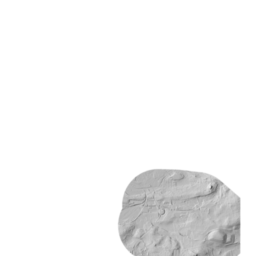
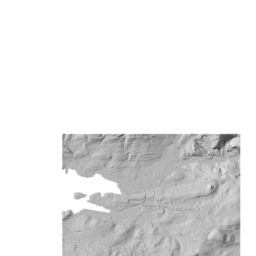
fix: ostavi sjenčanje neodrezano na z12-14
Rezanje na kvart + 1 km na svim zumovima znacilo je da pri z14 sjencanje
izgleda kao otok koji pluta na bijelom — podloga koje nema nije nenacrtan
sloj nego rupa.

Na sitnim zumovima rezanje ionako gotovo nista ne stedi: cijeli obuhvat
ondje stane u osamnaest plocica. Zato dva prolaza — z12-14 cijeli obuhvat,
z15-17 rezano, gdje i jest 94 % svih plocica.

  283 -> 288 plocica, 5,9 -> 6,1 MB   (pet plocica za puni pogled izdaleka)

Izmjereno, uz okno 1491 x 812 px: rub se ne vidi na z16 (2,58 km okna prema
3,74 km rezanog obuhvata) ni na z17. Na z15 se vidi vodoravno, ali ga bocne
ploce uglavnom prekrivaju, a na telefonu je okno uze od rezanog obuhvata pa
ga nema.

Changed region(s): [[0.2188, 0.5, 0.9375, 1.0]]

diff --git a/scripts/izvedi-reljef.py b/scripts/izvedi-reljef.py
@@ -88,6 +88,9 @@ ZAGLADI = 3  # ćelija (× KORAK_M ≈ 9 m) — box filtar prije izohipsi
 EKVIDISTANCIJA = 2.0  # m — razmak izohipsi
 POJEDNOSTAVI = 2.5  # m — Douglas-Peucker nad izohipsama
 ZUM_OD, ZUM_DO = 12, 17  # z17 = 0,87 m/px ≈ izvorna gustoća DMR-a
+# Od ovog zuma naviše pločice se režu na kvart; ispod njega se objavljuje
+# cijeli obuhvat. Vidi dvostruki prolaz u `sjencani_reljef`.
+ZUM_REZ_OD = 15
 PRAZNO = -9999
 
 
@@ -206,49 +209,61 @@ def sjencani_reljef(reljef3: str, radni: str) -> int:
 
     # Pločica bez alfe pokrila bi more i rubove punom sivom plohom. Alfa se
     # uzima iz DMR-a, ne iz sjenčanja: sjenčanje i na praznini vrati broj.
-    #
-    # Uz to se reže na kvart + REZERVA_SJENCANJE_M. Reljef se računa na cijelom
-    # obuhvatu karte jer ga mreža visina treba, ali pločice se i objavljuju i
-    # drže u gitu, a izvan kvarta ih nitko ne gleda: prije rezanja je 74 %
-    # svih pločica bilo na z17, uglavnom nad područjem kroz koje se samo
-    # prolazi prema tokovima.
     izvor = gdal.Open(reljef3)
     visine = izvor.GetRasterBand(1).ReadAsArray()
     sjena_ds = gdal.Open(sjena)
     siva = sjena_ds.GetRasterBand(1).ReadAsArray()
-    maska = maska_na_mrezi(reljef3, REZERVA_SJENCANJE_M)
-    alfa = np.where((visine != PRAZNO) & maska, 255, 0).astype(np.uint8)
+    ima_visinu = visine != PRAZNO
 
-    rgba_put = os.path.join(radni, "sjena-rgba.tif")
-    rgba = gdal.GetDriverByName("GTiff").Create(
-        rgba_put, izvor.RasterXSize, izvor.RasterYSize, 4, gdal.GDT_Byte
-    )
-    rgba.SetGeoTransform(izvor.GetGeoTransform())
-    rgba.SetProjection(izvor.GetProjection())
-    for i in (1, 2, 3):
-        rgba.GetRasterBand(i).WriteArray(siva)
-    rgba.GetRasterBand(4).WriteArray(alfa)
-    rgba = None
+    def rgba(alfa: np.ndarray, ime: str) -> str:
+        put = os.path.join(radni, f"{ime}.tif")
+        ds = gdal.GetDriverByName("GTiff").Create(
+            put, izvor.RasterXSize, izvor.RasterYSize, 4, gdal.GDT_Byte
+        )
+        ds.SetGeoTransform(izvor.GetGeoTransform())
+        ds.SetProjection(izvor.GetProjection())
+        for i in (1, 2, 3):
+            ds.GetRasterBand(i).WriteArray(siva)
+        ds.GetRasterBand(4).WriteArray(alfa)
+        ds = None
+        return put
+
+    puni = rgba(np.where(ima_visinu, 255, 0).astype(np.uint8), "sjena-puna")
+    maska = maska_na_mrezi(reljef3, REZERVA_SJENCANJE_M)
+    rezani = rgba(np.where(ima_visinu & maska, 255, 0).astype(np.uint8), "sjena-rezana")
 
     if os.path.isdir(IZLAZ_RELJEF):
         for z in range(0, 25):
             shutil.rmtree(os.path.join(IZLAZ_RELJEF, str(z)), ignore_errors=True)
     os.makedirs(IZLAZ_RELJEF, exist_ok=True)
 
-    subprocess.run(
-        [
-            "gdal2tiles.py",
-            "--xyz",
-            f"--zoom={ZUM_OD}-{ZUM_DO}",
-            "--resampling=bilinear",
-            "--webviewer=none",
-            "--processes=4",
-            "-q",
-            rgba_put,
-            IZLAZ_RELJEF,
-        ],
-        check=True,
-    )
+    # Dva prolaza, jer se rezanje isplati samo na krupnom mjerilu.
+    #
+    # Na sitnim zumovima cijeli obuhvat stane u dvadesetak pločica, pa rezanje
+    # ondje ne štedi gotovo ništa — a KOŠTA, i to vidljivo: sjenčanje odrezano
+    # na kvart pri z14 izgleda kao otok koji pluta na bijelom. Podloga koje
+    # nema nije nenacrtan sloj nego rupa.
+    #
+    # Na z15–17 je obratno: ondje je 95 % svih pločica, rub se ne vidi jer je
+    # pola okna manje od rezerve, i rezanje prepolovi cijeli skup.
+    for od, do, izvorna in (
+        (ZUM_OD, ZUM_REZ_OD - 1, puni),
+        (ZUM_REZ_OD, ZUM_DO, rezani),
+    ):
+        subprocess.run(
+            [
+                "gdal2tiles.py",
+                "--xyz",
+                f"--zoom={od}-{do}",
+                "--resampling=bilinear",
+                "--webviewer=none",
+                "--processes=4",
+                "-q",
+                izvorna,
+                IZLAZ_RELJEF,
+            ],
+            check=True,
+        )
 
     # gdal2tiles uz pločice ostavlja i svoj opis skupa; karta ga ne čita.
     for smece in ("tilemapresource.xml", "googlemaps.html", "openlayers.html", "leaflet.html"):
@@ -281,15 +296,17 @@ def sjencani_reljef(reljef3: str, radni: str) -> int:
             os.rmdir(koren)
 
     logger.info(
-        "sjenčani reljef: %d pločica, %.1f MB (RGBA bi bilo %.1f MB), zumovi %d–%d; "
-        "izbačeno %d praznih izvan kvarta + %.0f m",
+        "sjenčani reljef: %d pločica, %.1f MB (RGBA bi bilo %.1f MB); "
+        "z%d–%d cijeli obuhvat, z%d–%d rezano na kvart + %.0f m (izbačeno %d praznih)",
         broj,
         poslije / 1e6,
         prije / 1e6,
         ZUM_OD,
+        ZUM_REZ_OD - 1,
+        ZUM_REZ_OD,
         ZUM_DO,
-        prazne,
         REZERVA_SJENCANJE_M,
+        prazne,
     )
     return broj
 

diff --git a/docs/superpowers/specs/2026-08-14-podloge-vremeplov-reljef-design.md b/docs/superpowers/specs/2026-08-14-podloge-vremeplov-reljef-design.md
@@ -120,16 +120,29 @@ Zumovi 12–17. Na z17 je 0,87 m po pikselu, dakle točno izvorna gustoća DMR-a
 z18 i z19 bi bili napuhani isti podatak, pa se dobivaju `maxNativeZoom: 17` i
 Leafletovim rastezanjem. To nije ušteda nego istina o razlučivosti.
 
-Pločice se **režu na kvart + 1 km** (REZERVA_SJENCANJE_M). Rezerva je znatno
-šira nego kod izohipsi jer je sjenčanje PODLOGA: pod njim nema ničega, pa
-ondje gdje ga nema ostaje prazna ploha. Pri z16 je pola okna oko 700 m, pa
-kilometar znači da se do ruba dolazi tek namjernim pomicanjem izvan kvarta —
-provjereno: pri z16 se rub ne vidi, pri z14 se sjenčanje vidi kao otok.
+Rezanje ide **u dva prolaza**, jer se isplati samo na krupnom mjerilu:
+
+| Zumovi | Obuhvat | Pločica |
+|---|---|---|
+| z12–14 | cijeli obuhvat karte | 18 |
+| z15–17 | kvart + 1 km (REZERVA_SJENCANJE_M) | 270 |
+
+Na sitnim zumovima cijeli obuhvat stane u osamnaest pločica, pa rezanje ondje
+ne štedi gotovo ništa — a KOŠTA, i to vidljivo: odrezano sjenčanje pri z14
+izgleda kao otok koji pluta na bijelom. Podloga koje nema nije nenacrtan sloj
+nego rupa. Na z15–17 je obratno: ondje je 94 % svih pločica.
+
+Rezerva od 1 km je znatno šira nego kod izohipsi (120 m) iz istog razloga.
+Izmjereno, uz okno 1491 × 812 px: rub se ne vidi na z16 (2,58 km okna prema
+3,74 km rezanog obuhvata) ni na z17. Na z15 se vidi vodoravno, ali ga bočne
+ploče uglavnom prekrivaju, a na telefonu je okno uže od rezanog obuhvata pa
+ga nema. To je poznata i prihvaćena granica.
 
 Ostatak obuhvata karte (koji seže do Kozjaka i mora, zbog sloja tokova)
-svjesno ostaje bez sjenčanja: ondje se gleda tok vode, a ne oblik terena.
+svjesno ostaje bez sjenčanja na krupnom mjerilu: ondje se gleda tok vode, a
+ne oblik terena.
 
-Izrađeno: **283 pločice, 5,9 MB** (sive s alfom, ne RGBA — sjenčanje je sivo,
+Izrađeno: **288 pločica, 6,1 MB** (sive s alfom, ne RGBA — sjenčanje je sivo,
 pa bi tri jednaka kanala isti bajt nosila tri puta). Prije rezanja: 585
 pločica i 12,9 MB, od čega je 74 % otpadalo na z17.
 
@@ -204,5 +217,5 @@ Oboje je popravljeno u `karta-klizac.ts` i vrijedi za oba klizača.
 
 Mjereno pri izradi (`npm run izvedi-reljef`): mreža 1641 × 1225, 4,0 MB sirovo
 i 1,6 MB na disku; izohipse 161 crta (26 glavnih), 0,11 MB, rezano na kvart
-+ 120 m; sjenčanje 283 pločice, 5,9 MB, rezano na kvart + 1 km. Očitanje iz mreže protiv izvornog DMR-a na 1.889 nasumičnih
++ 120 m; sjenčanje 288 pločica, 6,1 MB, rezano na kvart + 1 km od z15. Očitanje iz mreže protiv izvornog DMR-a na 1.889 nasumičnih
 točaka: medijan 0,07 m, 95. percentil 0,60 m, najgore 3,70 m.
